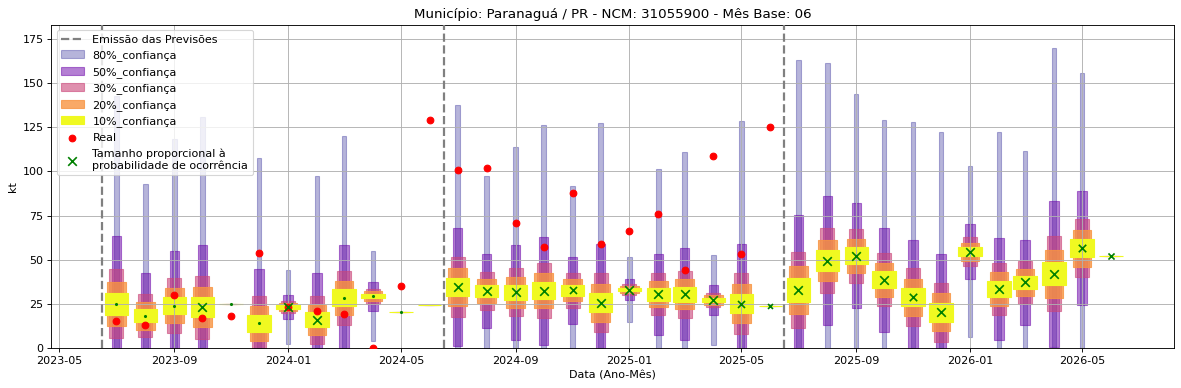
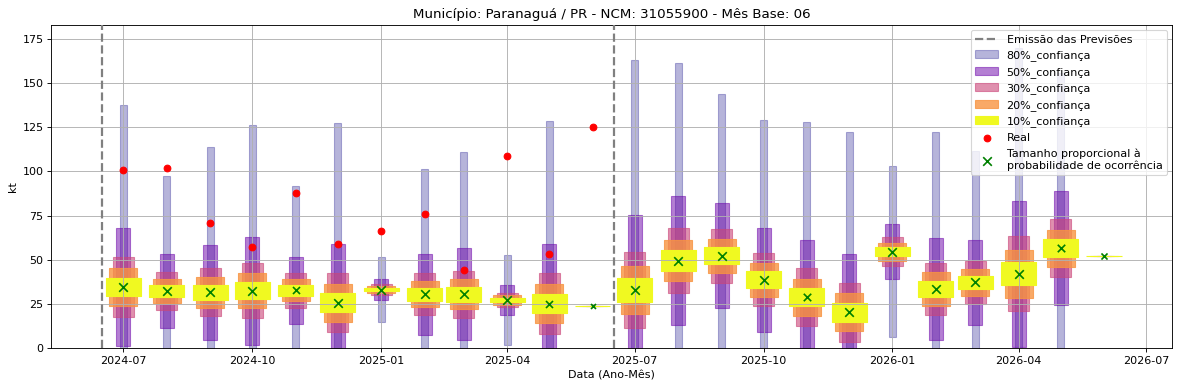
Atualização automática em lote

Changed region(s): [[0.0305, 0.0, 1.0, 0.9897], [0.0305, 0.8969, 0.061, 0.9588], [0.1831, 0.3093, 0.2136, 0.3402]]

diff --git a/README.md b/README.md
@@ -16,18 +16,17 @@
 
 
 ![Gráfico de Previsão](31042090.png)
-
-Fator de Influência em Destaque nos últimos 8 anos:
-
+Fator de Influência em Destaque:
 Previsão Influenciada:
 - Município: Paranaguá
 - Produto (NCM): Outros cloretos de potássio-31042090 
-- Mês: 07
+- Mês previsto: 07
 
 
-Fator Influenciador: Comércio Exterior
-- Produto: Sementes e frutos oleaginosos; grãos, sementes e frutos diversos; plantas industriais ou medicinais; palhas e forragens (12)
-- UF: PR
+Fator Influenciador: Comex
+- Município: Maringá
+- Produto (NCM): Diidrogeno-ortofosfato de amônio (fosfato monoamônico ou monoamoniacal), mesmo misturado com hidrogeno-ortofosfato de diamônio (fosfato diamônico ou diamoniacal)-31054000 
+- Mês previsto: 12
 - Unidade: kt_lag12
 
 
@@ -36,59 +35,41 @@ Fator Influenciador: Comércio Exterior
 
 
 
-
-
-
-.
-
 ![Gráfico de Previsão](31054000.png)
-
-Fator de Influência em Destaque nos últimos 8 anos:
-
+Fator de Influência em Destaque:
 Previsão Influenciada:
 - Município: Paranaguá
 - Produto (NCM): Diidrogeno-ortofosfato de amônio (fosfato monoamônico ou monoamoniacal), mesmo misturado com hidrogeno-ortofosfato de diamônio (fosfato diamônico ou diamoniacal)-31054000 
-- Mês: 07
+- Mês previsto: 07
 
 
-Fator Influenciador: Comércio Exterior
-- Produto: Sementes e frutos oleaginosos; grãos, sementes e frutos diversos; plantas industriais ou medicinais; palhas e forragens (12)
-- UF: GO
-- Unidade: kt_lag24
-
-
-
-
+Fator Influenciador: Comex
+- Município: Maringá
+- Produto (NCM): Diidrogeno-ortofosfato de amônio (fosfato monoamônico ou monoamoniacal), mesmo misturado com hidrogeno-ortofosfato de diamônio (fosfato diamônico ou diamoniacal)-31054000 
+- Mês previsto: 12
+- Unidade: kt_lag12
 
 
 
 
 
 
-.
 
 ![Gráfico de Previsão](31055900.png)
-
-Fator de Influência em Destaque nos últimos 8 anos:
-
+Fator de Influência em Destaque:
 Previsão Influenciada:
 - Município: Paranaguá
 - Produto (NCM): Outros adubos/fertilizantes minerais químicos, com nitrogênio e fósforo-31055900 
-- Mês: 07
+- Mês previsto: 07
 
 
-Fator Influenciador: Comércio Exterior
-- Produto: Sementes e frutos oleaginosos; grãos, sementes e frutos diversos; plantas industriais ou medicinais; palhas e forragens (12)
-- UF: RS
-- Unidade: sm_diff
-
-
-
-
+Fator Influenciador: Comex
+- Município: Maringá
+- Produto (NCM): Diidrogeno-ortofosfato de amônio (fosfato monoamônico ou monoamoniacal), mesmo misturado com hidrogeno-ortofosfato de diamônio (fosfato diamônico ou diamoniacal)-31054000 
+- Mês previsto: 12
+- Unidade: kt_lag12
 
 
 
 
 
-
-.
